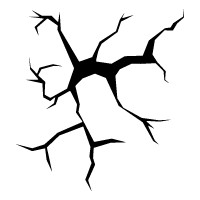
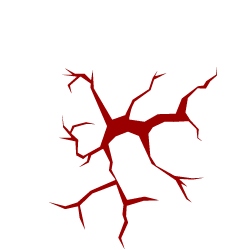
Pressure Blast finishing touches

Changed region(s): [[0.09, 0.06, 0.93, 1.0], [0.78, 0.51, 0.81, 0.57], [0.12, 0.3, 0.15, 0.33]]

diff --git a/src/main/java/hydrologistmod/vfx/PressureBlastEffect.java b/src/main/java/hydrologistmod/vfx/PressureBlastEffect.java
@@ -15,12 +15,12 @@ import com.megacrit.cardcrawl.vfx.AbstractGameEffect;
 import hydrologistmod.actions.PressureBlastAction;
 
 public class PressureBlastEffect extends AbstractGameEffect {
-    private static final float LOOP_TARGET_VOLUME = 0.8f;
+    private static final float LOOP_TARGET_VOLUME = 0.2f;
     private static final float VOLUME_FADE_DURATION = 0.5f;
     private static final Texture CRACK_TEXTURE = new Texture("hydrologistmod/images/vfx/PressureBlastCrack.png");
     private static final Texture MASK_TEXTURE = new Texture("hydrologistmod/images/vfx/PressureBlastCrackMask.png");
-    private static final float CRACK_OFFSET_X = 20.0f;
-    private static final float CRACK_OFFSET_Y = 20.0f;
+    private static final float CRACK_OFFSET_X = 80.0f;
+    private static final float CRACK_OFFSET_Y = 30.0f;
     private static TextureAtlas.AtlasRegion beamImg;
     private static TextureRegion crackImg = new TextureRegion(CRACK_TEXTURE);
     private static TextureRegion maskImg = new TextureRegion(MASK_TEXTURE);
@@ -41,6 +41,8 @@ public class PressureBlastEffect extends AbstractGameEffect {
     public boolean doneBlasting = false;
     private float iceTransparency = 0.0f;
     private float iceTargetTransparency;
+    private float crackTransparency = 1.0f;
+    private Color crackRenderColor = Color.WHITE.cpy();
     private Color iceRenderColor = Color.WHITE.cpy();
     private PressureBlastAction parent;
     private Phase phase = Phase.FADE_IN;
@@ -87,12 +89,12 @@ public class PressureBlastEffect extends AbstractGameEffect {
                     crackFormDuration = 0;
                     phase = Phase.BLASTING;
                 }
-                crackMaskSize = Interpolation.linear.apply(0.0f, crackMaskTargetSize, (crackFormStartDuration - crackFormDuration) / crackFormStartDuration);
+                crackMaskSize = Interpolation.linear.apply(0.1f, crackMaskTargetSize, (crackFormStartDuration - crackFormDuration) / crackFormStartDuration);
                 break;
             //phase 3: render hyperbeam-like effect under ice sphere, loop sound
             case BLASTING:
                 if (!loopStarted) {
-                    soundID = CardCrawlGame.sound.playAndLoop("hydrologistmod:STEAM_LOOP");
+                    soundID = CardCrawlGame.sound.playAndLoop("hydrologistmod:STEAM_LOOP", 0.05f);
                     parent.beginBlasting = true;
                     loopStarted = true;
                     renderBeam = true;
@@ -103,7 +105,7 @@ public class PressureBlastEffect extends AbstractGameEffect {
                         if (volumeDuration >= VOLUME_FADE_DURATION) {
                             volumeDuration = VOLUME_FADE_DURATION;
                         }
-                        loopVolume = Interpolation.linear.apply(0.0f, LOOP_TARGET_VOLUME, volumeDuration / VOLUME_FADE_DURATION);
+                        loopVolume = Interpolation.linear.apply(0.05f, LOOP_TARGET_VOLUME, volumeDuration / VOLUME_FADE_DURATION);
                         CardCrawlGame.sound.adjustVolume("hydrologistmod:STEAM_LOOP", soundID, loopVolume);
                     }
                 } else {
@@ -114,7 +116,7 @@ public class PressureBlastEffect extends AbstractGameEffect {
                         renderBeam = false;
                         CardCrawlGame.sound.stop("hydrologistmod:STEAM_LOOP");
                     }
-                    loopVolume = Interpolation.linear.apply(LOOP_TARGET_VOLUME, 0.0f, (VOLUME_FADE_DURATION - volumeDuration) / VOLUME_FADE_DURATION);
+                    loopVolume = Interpolation.linear.apply(LOOP_TARGET_VOLUME, 0.05f, (VOLUME_FADE_DURATION - volumeDuration) / VOLUME_FADE_DURATION);
                     CardCrawlGame.sound.adjustVolume("hydrologistmod:STEAM_LOOP", soundID, loopVolume);
                 }
                 break;
@@ -125,7 +127,9 @@ public class PressureBlastEffect extends AbstractGameEffect {
                     isDone = true;
                     fadeDuration = fadeStartDuration;
                 }
+                crackTransparency = Interpolation.linear.apply(1.0f, 0.0f, fadeDuration / fadeStartDuration);
                 iceTransparency = Interpolation.linear.apply(iceTargetTransparency, 0.0f, fadeDuration / fadeStartDuration);
+                crackRenderColor.a = crackTransparency;
                 iceRenderColor.a = iceTransparency;
                 break;
         }
@@ -137,6 +141,7 @@ public class PressureBlastEffect extends AbstractGameEffect {
             float crackX = centerX + (CRACK_OFFSET_X * Settings.scale);
             float crackY = centerY + (CRACK_OFFSET_Y * Settings.scale);
             if (crackFormDuration == 0.0f) {
+                sb.setColor(crackRenderColor);
                 sb.draw(crackImg, crackX - (crackImg.getRegionWidth() / 2.0f), crackY - (crackImg.getRegionHeight() / 2.0f), crackImg.getRegionWidth() / 2.0f, crackImg.getRegionHeight() / 2.0f, crackImg.getRegionWidth(), crackImg.getRegionHeight(), scale, scale, crackRotation);
             } else {
                 //draw the crack in fb
@@ -168,12 +173,12 @@ public class PressureBlastEffect extends AbstractGameEffect {
         //render beam
         if (renderBeam) {
             sb.setBlendFunction(GL30.GL_SRC_ALPHA, GL30.GL_ONE);
-            sb.setColor(Color.CYAN.cpy());
-            float beamX = centerX + ((CRACK_OFFSET_X - 10.0f) * Settings.scale);
+            sb.setColor(Color.GRAY.cpy());
+            float beamX = centerX;
             float beamY = centerY + (CRACK_OFFSET_Y * Settings.scale);
             sb.draw(beamImg, beamX, beamY - beamImg.packedHeight / 2.0f, 0.0f, beamImg.packedHeight / 2.0f, beamImg.packedWidth, beamImg.packedHeight, scale * 2.0f + MathUtils.random(-0.05f, 0.05f), scale * 1.5f + MathUtils.random(-0.1f, 0.1f), MathUtils.random(-4.0f, 4.0f));
             sb.draw(beamImg, beamX, beamY - beamImg.packedHeight / 2.0f, 0.0f, beamImg.packedHeight / 2.0f, beamImg.packedWidth, beamImg.packedHeight, scale * 2.0f + MathUtils.random(-0.05f, 0.05f), scale * 1.5f + MathUtils.random(-0.1f, 0.1f), MathUtils.random(-4.0f, 4.0f));
-            sb.setColor(Color.GRAY.cpy());
+            sb.setColor(new Color(0.3f, 0.3f, 0.3f, 1.0f));
             sb.draw(beamImg, beamX, beamY - beamImg.packedHeight / 2.0f, 0.0f, beamImg.packedHeight / 2.0f, beamImg.packedWidth, beamImg.packedHeight, scale * 2.0f, scale / 2.0f, MathUtils.random(-2.0f, 2.0f));
             sb.draw(beamImg, beamX, beamY - beamImg.packedHeight / 2.0f, 0.0f, beamImg.packedHeight / 2.0f, beamImg.packedWidth, beamImg.packedHeight, scale * 2.0f, scale / 2.0f, MathUtils.random(-2.0f, 2.0f));
             sb.setBlendFunction(GL30.GL_SRC_ALPHA, GL30.GL_ONE_MINUS_SRC_ALPHA);

diff --git a/src/main/java/hydrologistmod/actions/PressureBlastAction.java b/src/main/java/hydrologistmod/actions/PressureBlastAction.java
@@ -25,13 +25,17 @@ public class PressureBlastAction extends AbstractGameAction {
     private int damagesPerSecond = 12;
     private float durationPerDamage = damagesPerSecond / 60.0f;
     private float damageDuration = durationPerDamage;
+    private float centerX;
+    private float centerY;
 
-    public PressureBlastAction(AbstractPlayer p, AbstractMonster m, int damage, DamageInfo.DamageType damageTypeForTurn, boolean freeToPlayOnce, int energyOnUse) {
+    public PressureBlastAction(AbstractPlayer p, AbstractMonster m, int damage, DamageInfo.DamageType damageTypeForTurn, boolean freeToPlayOnce, int energyOnUse, float x, float y) {
         this.freeToPlayOnce = freeToPlayOnce;
         this.p = p;
         this.m = m;
         this.energyOnUse = energyOnUse;
         info = new DamageInfo(p, damage, damageTypeForTurn);
+        centerX = x;
+        centerY = y;
     }
 
     @Override
@@ -47,7 +51,7 @@ public class PressureBlastAction extends AbstractGameAction {
                 p.getRelic(ChemicalX.ID).flash();
             }
             if (amount > 0) {
-                effect = new PressureBlastEffect(p.hb.cX, p.hb.cY, 0.5f, 1.0f, 2.0f, this);
+                effect = new PressureBlastEffect(centerX, centerY, 0.5f, 0.4f, 1.0f, this);
                 AbstractDungeon.effectList.add(effect);
                 if (!freeToPlayOnce) {
                     p.energy.use(EnergyPanel.totalCount);

diff --git a/src/main/java/hydrologistmod/actions/EncapsulatingIceAction.java b/src/main/java/hydrologistmod/actions/EncapsulatingIceAction.java
@@ -34,7 +34,7 @@ public class EncapsulatingIceAction extends AbstractGameAction {
     @Override
     public void update() {
         AbstractPlayer p = AbstractDungeon.player;
-        AbstractDungeon.effectList.add(new EncapsulatingIceEffect(p.hb.cX, p.hb.cY, 2.0f, 1.0f, 0.5f));
+        AbstractDungeon.effectList.add(new EncapsulatingIceEffect(p.hb.cX, p.hb.cY, 1.0f, 0.7f, 0.5f));
         int effect = EnergyPanel.totalCount;
         if (energyOnUse != -1) {
             effect = energyOnUse;

diff --git a/src/main/java/hydrologistmod/cards/PressureBlast.java b/src/main/java/hydrologistmod/cards/PressureBlast.java
@@ -38,7 +38,7 @@ public class PressureBlast extends AbstractHydrologistCard {
 
     @Override
     public void use(AbstractPlayer p, AbstractMonster m) {
-        addToBot(new PressureBlastAction(p, m, damage, damageTypeForTurn, freeToPlayOnce, energyOnUse + magicNumber));
+        addToBot(new PressureBlastAction(p, m, damage, damageTypeForTurn, freeToPlayOnce, energyOnUse + magicNumber, p.hb.cX, p.hb.cY));
     }
 
     @Override

diff --git a/src/main/java/hydrologistmod/actions/FillHandWithCopiesAction.java b/src/main/java/hydrologistmod/actions/FillHandWithCopiesAction.java
@@ -25,5 +25,15 @@ public class FillHandWithCopiesAction extends AbstractGameAction {
             AbstractDungeon.actionManager.addToTop(new MakeTempCardInHandAction(card, BaseMod.MAX_HAND_SIZE - AbstractDungeon.player.hand.size()));
         }
         isDone = true;
+
+        int x = 10;
+
+        do {
+            x += 5;
+        } while (x < 20);
+
+        while (x < 30) {
+            x += 5;
+        }
     }
 }
